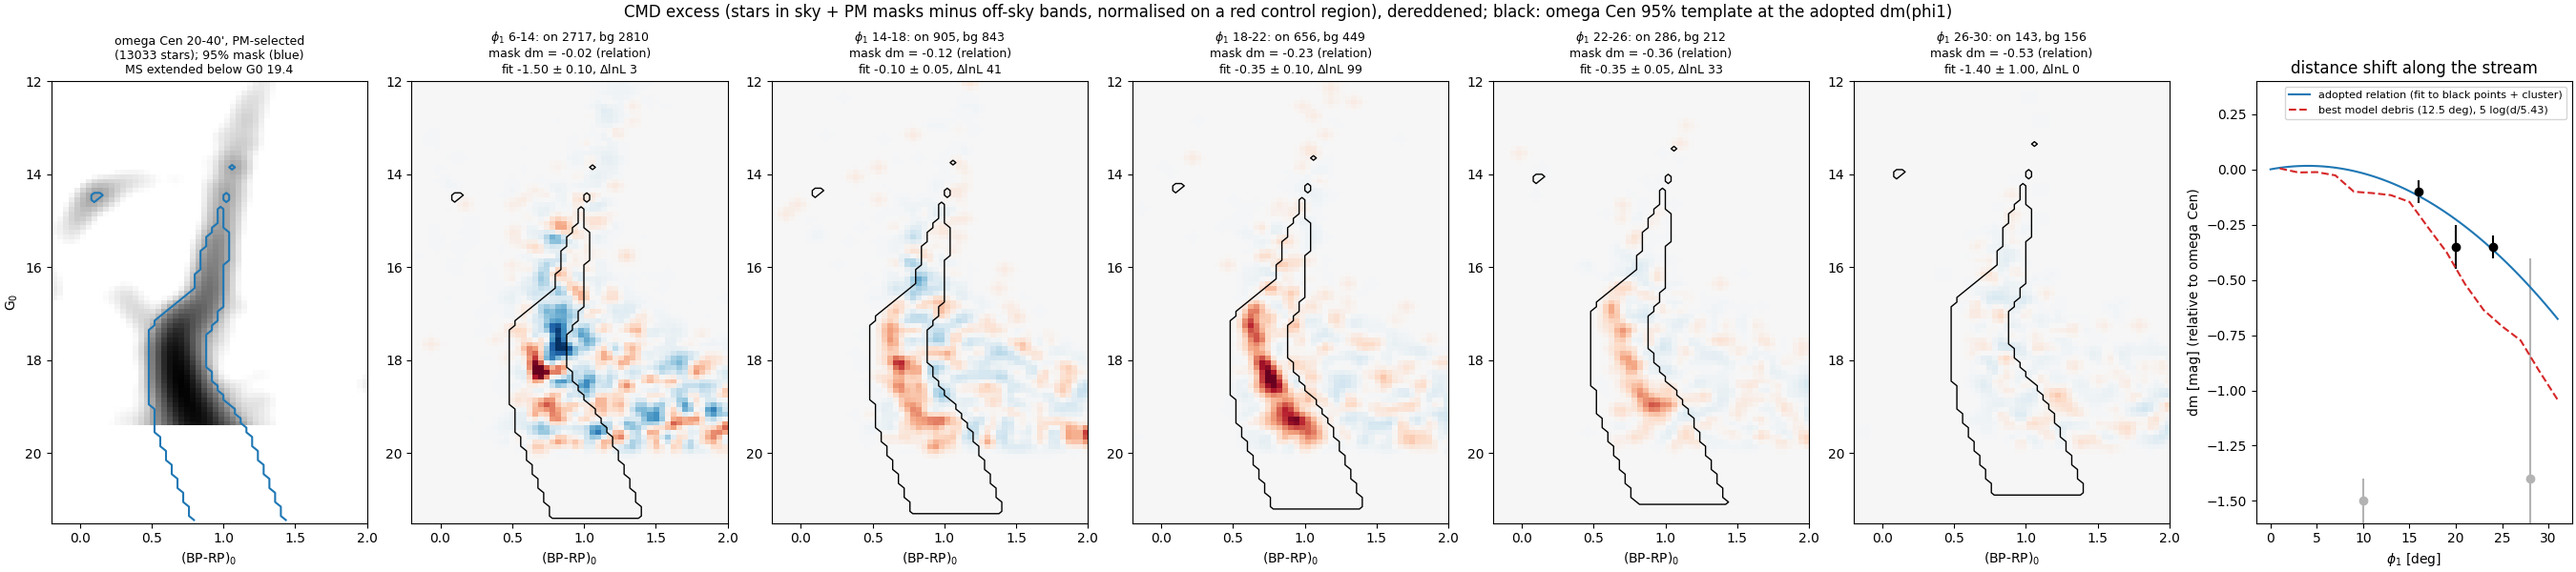
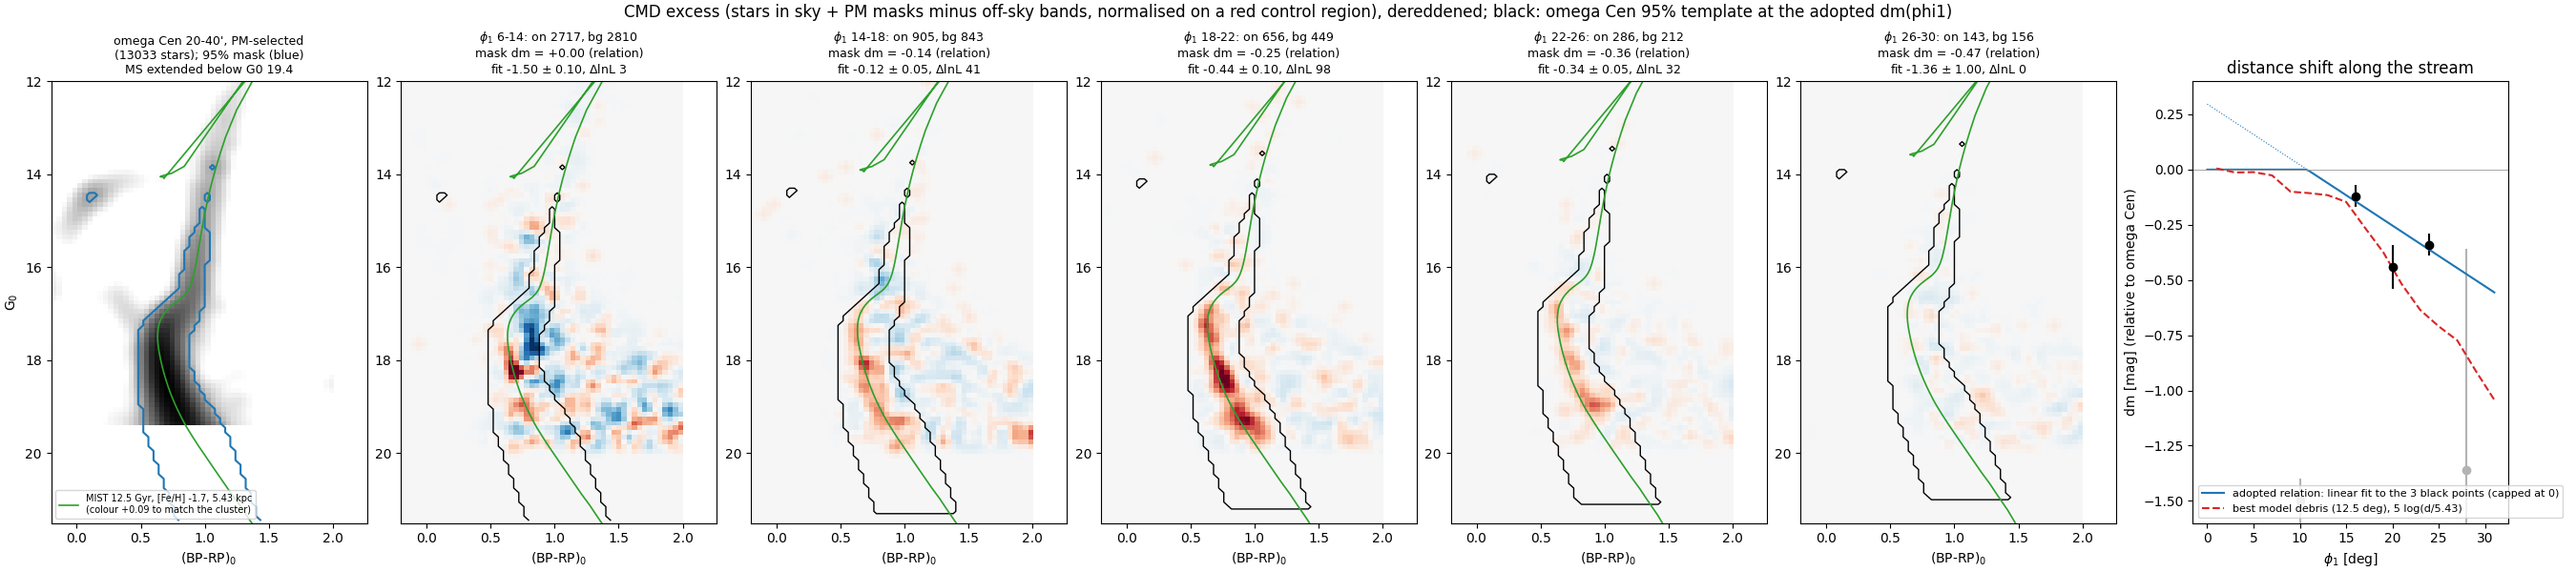
CMD excess: dm from the 3 signal bins, linear dm(phi1) relation (capped at the cluster), colour-calibrated MIST isochrone at the matched dm

diff --git a/bin/streams/gaia_cmd_excess.py b/bin/streams/gaia_cmd_excess.py
@@ -15,8 +15,11 @@ the ratio of on/off counts in a red CMD control region ((BP-RP)_0 1.25-2.5, wher
 and sky selection, per phi1 bin (area scaling over-subtracted near phi1 6-14).
 Distance shift: per phi1 bin, the magnitude offset dm of the (unextended) template that maximises the Poisson likelihood of the
 on-sample given (scaled off-sample + a x shifted template), compared only at G0 < 19.4 + dm where the shifted template is complete;
-error from Delta lnL = 0.5. The ADOPTED relation dm(phi1) is a weighted quadratic through dm = 0 +- 0.05 at the cluster and the bins
-with Delta lnL >= 10; the masks use the relation, not the per-bin values (noisy bins wander to the grid edges).
+error from Delta lnL = 0.5. The ADOPTED relation dm(phi1) is a weighted linear fit to the three bins with a clear CMD excess (phi1 14-18, 18-22,
+22-26; the user's choice), capped at dm = 0 (the cluster) where the extrapolation would place the stream beyond the cluster
+(phi1 < ~11); the masks use the relation, extrapolated elsewhere (noisy bins wander to the grid edges).
+Green curve: MIST 12.5 Gyr, [Fe/H] = -1.7 isochrone (minimint, Gaia EDR3 bands) at 5.43 kpc + dm, shifted in colour to the
+cluster's ridge at G0 17.6-19.3 (MIST colour systematics).
 Figures: plots/gaia_cmd_excess.png (per phi1 bin: excess Hess diagram with the shifted template mask; template panel);
 results/plot_data/gaia_cmd_shift.json (dm per bin).
 Usage: PYTHONPATH=src python bin/streams/gaia_cmd_excess.py [--dm0]  (--dm0: mask at the cluster's dm in all panels ->
@@ -65,6 +68,16 @@ def template(D, g0, c0):
     return Tfit, M, k.sum()
 
 
+def isochrone(age_gyr=12.5, feh=-1.7, d_kpc=5.43):
+    """MIST (minimint, $OCEN_ISOCHRONES/minimint) Gaia EDR3 isochrone up to the RGB tip: (BP-RP, G) at distance d_kpc."""
+    import minimint
+    import ocen_dm  # noqa: F401  (loads .env)
+    ii = minimint.Interpolator(["Gaia_G_EDR3", "Gaia_BP_EDR3", "Gaia_RP_EDR3"], data_prefix=os.path.join(os.path.expanduser(os.path.expandvars("$OCEN_ISOCHRONES")), "minimint"))
+    m = np.linspace(0.1, ii.getMaxMass(np.log10(age_gyr*1e9), feh)-1e-4, 3000); r = ii(m, np.log10(age_gyr*1e9), feh)
+    dmod = 5*np.log10(d_kpc*1e3)-5; ok = np.isfinite(r["Gaia_G_EDR3"])
+    return (r["Gaia_BP_EDR3"]-r["Gaia_RP_EDR3"])[ok], r["Gaia_G_EDR3"][ok]+dmod
+
+
 def main():
     import gaia_xsel_marked as GX
     from gaia_cross_selection import KNOTS
@@ -89,10 +102,17 @@ def main():
     from branch_search_gaia import GC
     rng = np.random.default_rng(2); n = 6_000_000; l = rng.uniform(-110, 10, n); b = np.degrees(np.arcsin(rng.uniform(np.sin(np.radians(-20)), np.sin(np.radians(75)), n)))
     ru, rx = project_gc(l, b, GC); ok = (b > 8) & ~gc_masked(l, b); ron = ok & (np.abs(rx-tl(ru)) < 1.5); roff = ok & (np.abs(rx-tl(ru)) > 4) & (np.abs(rx-tl(ru)) < 12)
-    dms = np.arange(-1.5, 0.51, 0.05); out = {}; cg = 0.5*(EG[1:]+EG[:-1])
+    dms = np.arange(-1.5, 0.51, 0.02); out = {}; cg = 0.5*(EG[1:]+EG[:-1])
     fig, ax = plt.subplots(1, len(BINS)+2, figsize=(27, 6), constrained_layout=True)
     ax[0].imshow(np.log10(T+1e-9).T, origin="lower", extent=(EC[0], EC[-1], EG[0], EG[-1]), aspect="auto", cmap="Greys", vmin=-5, vmax=-2)
     ax[0].contour(0.5*(EC[1:]+EC[:-1]), cg, Tmask.T.astype(float), levels=[0.5], colors="C0")
+    iso0 = isochrone(); cc_ = 0.5*(EC[1:]+EC[:-1]); r_ = (cg > 17.6) & (cg < 19.3)
+    ridge = np.array([np.sum(cc_*T[:, j])/np.sum(T[:, j]) for j in np.where(r_)[0]])
+    ms = iso0[1] > 17.0                                                   # main sequence below the turnoff (monotonic in G)
+    o = np.argsort(iso0[1][ms]); dcol = float(np.median(ridge-np.interp(cg[r_], iso0[1][ms][o], iso0[0][ms][o])))
+    ISO = (iso0[0]+dcol, iso0[1]); print(f"isochrone colour offset (cluster ridge - MIST, G0 17.6-19.3): {dcol:+.3f} mag", flush=True)
+    ax[0].plot(*ISO, "-", color="C2", lw=1.2, label=f"MIST 12.5 Gyr, [Fe/H] -1.7, 5.43 kpc\n(colour {dcol:+.2f} to match the cluster)"); ax[0].legend(fontsize=7, loc="lower left")
+    ax[0].set_ylim(EG[-1], EG[0])
     ax[0].set_title(f"omega Cen 20-40', PM-selected\n({nT} stars); 95% mask (blue)\nMS extended below G0 19.4", fontsize=9); ax[0].set(xlabel=r"(BP-RP)$_0$", ylabel=r"G$_0$")
     ctl = (c0 > 1.25) & (c0 < 2.5) & (g0 < 20)                          # red control: no stream stars, same PM and sky selection
     hists = {}
@@ -113,27 +133,33 @@ def main():
         hists[(a0, a1)] = (Hn, Hf)
         print(f"phi1 {a0}-{a1}: on {int(Hn.sum())}, bg {Hf.sum():.0f}, dm {dms[i]:+.2f} +- {err:.2f}, dlnL {prof[i]:.1f}", flush=True)
     # smooth distance relation: dm(phi1) quadratic through the cluster (dm = 0 +- 0.05 at phi1 = 0) and bins with dlnL >= 10
-    good = [v for v in out.values() if v["dlnL"] >= 10]
-    X = np.array([0.]+[v["center"] for v in good]); Y = np.array([0.]+[v["dm"] for v in good]); E = np.array([0.05]+[v["err"] for v in good])
-    coef = np.polyfit(X, Y, 2 if len(X) >= 4 else 1, w=1/E); dmf = lambda p: np.polyval(coef, np.clip(p, 0, None))
+    # adopted relation: weighted linear fit dm = a + b phi1 to the three bins with a clear CMD excess (phi1 14-18, 18-22, 22-26)
+    good = [out[k] for k in ("14-18", "18-22", "22-26")]
+    X = np.array([v["center"] for v in good]); Y = np.array([v["dm"] for v in good]); E = np.array([v["err"] for v in good])
+    coef, cov = np.polyfit(X, Y, 1, w=1/E, cov="unscaled"); dmf = lambda p: np.minimum(np.polyval(coef, p), 0.)   # capped at the cluster's dm
+    print(f"dm(phi1) = {coef[1]:+.3f} + {coef[0]:+.4f} phi1  (errors {np.sqrt(cov[1,1]):.3f}, {np.sqrt(cov[0,0]):.4f}); "
+          f"d = 5.43 x 10^(dm/5): " + ", ".join(f"phi1 {p}: {5.43*10**(dmf(p)/5):.2f} kpc" for p in (0, 10, 16, 20, 24, 28)), flush=True)
+    iso = ISO
     for a_, (a0, a1) in zip(ax[1:-1], BINS):
         Hn, Hf = hists[(a0, a1)]; dm = 0. if DM0 else float(dmf(0.5*(a0+a1))); r = out[f"{a0}-{a1}"]
         a_.imshow(gaussian_filter(Hn-Hf, 1.).T, origin="lower", extent=(EC[0], EC[-1], EG[0], EG[-1]), aspect="auto", cmap="RdBu_r", vmin=-2, vmax=2)
         a_.contour(0.5*(EC[1:]+EC[:-1]), cg, ndshift(Tmask.astype(float), (0, dm/0.1), order=0, mode="constant").T, levels=[0.5], colors="k", linewidths=1)
+        a_.plot(iso[0], iso[1]+dm, "-", color="C2", lw=1.2)
         a_.set_title(f"$\\phi_1$ {a0}-{a1}: on {int(Hn.sum())}, bg {Hf.sum():.0f}\nmask dm = {dm:+.2f} ({'cluster' if DM0 else 'relation'})\nfit {r['dm']:+.2f} $\\pm$ {r['err']:.2f}, $\\Delta$lnL {r['dlnL']:.0f}", fontsize=9)
         a_.set(xlabel=r"(BP-RP)$_0$", ylim=(EG[-1], EG[0]))
     # dm vs phi1: fits, relation, model debris distances
     a_ = ax[-1]; ph = np.linspace(0, 31, 100)
     for v in out.values():
         a_.errorbar(v["center"], v["dm"], yerr=v["err"], fmt="o", color="k" if v["dlnL"] >= 10 else "0.7")
-    a_.plot(ph, dmf(ph), "C0-", label="adopted relation (fit to black points + cluster)")
+    a_.plot(ph, dmf(ph), "C0-", label="adopted relation: linear fit to the 3 black points (capped at 0)")
+    a_.plot(ph, np.polyval(coef, ph), "C0:", lw=0.8)
+    a_.axhline(0, color="0.6", lw=0.6)
     from grid4_common import project_gc as pg, GC as GC2
     m = dict(np.load(ROOT/"results/streams/profile_step2_20261020/runs/final_a12.5_3.npz")); mu_, mx_ = pg(m["l"], m["b"], GC2)
     kk = (m["chi"] > 0) & (m["age"] < 700) & (np.abs(mx_) < 2)
     e = np.arange(0, 32, 2.); md = [np.median(m["d"][kk & (mu_ >= a) & (mu_ < a+2)]) for a in e]
     a_.plot(e+1, 5*np.log10(np.array(md)/5.43), "C3--", label="best model debris (12.5 deg), 5 log(d/5.43)")
     a_.set(xlabel=r"$\phi_1$ [deg]", ylabel="dm [mag] (relative to omega Cen)", title="distance shift along the stream", ylim=(-1.6, 0.4)); a_.legend(fontsize=8)
-    ax[0].invert_yaxis()
     fig.suptitle("CMD excess (stars in sky + PM masks minus off-sky bands, normalised on a red control region), dereddened; black: omega Cen 95% template at the adopted dm(phi1)" if not DM0 else "CMD excess, dereddened; black: omega Cen 95% template at the cluster's distance (dm = 0) in every panel")
     fig.savefig(ROOT/f"plots/gaia_cmd_excess{'_dm0' if DM0 else ''}.png", dpi=100); plt.close(fig)
     if DM0:
